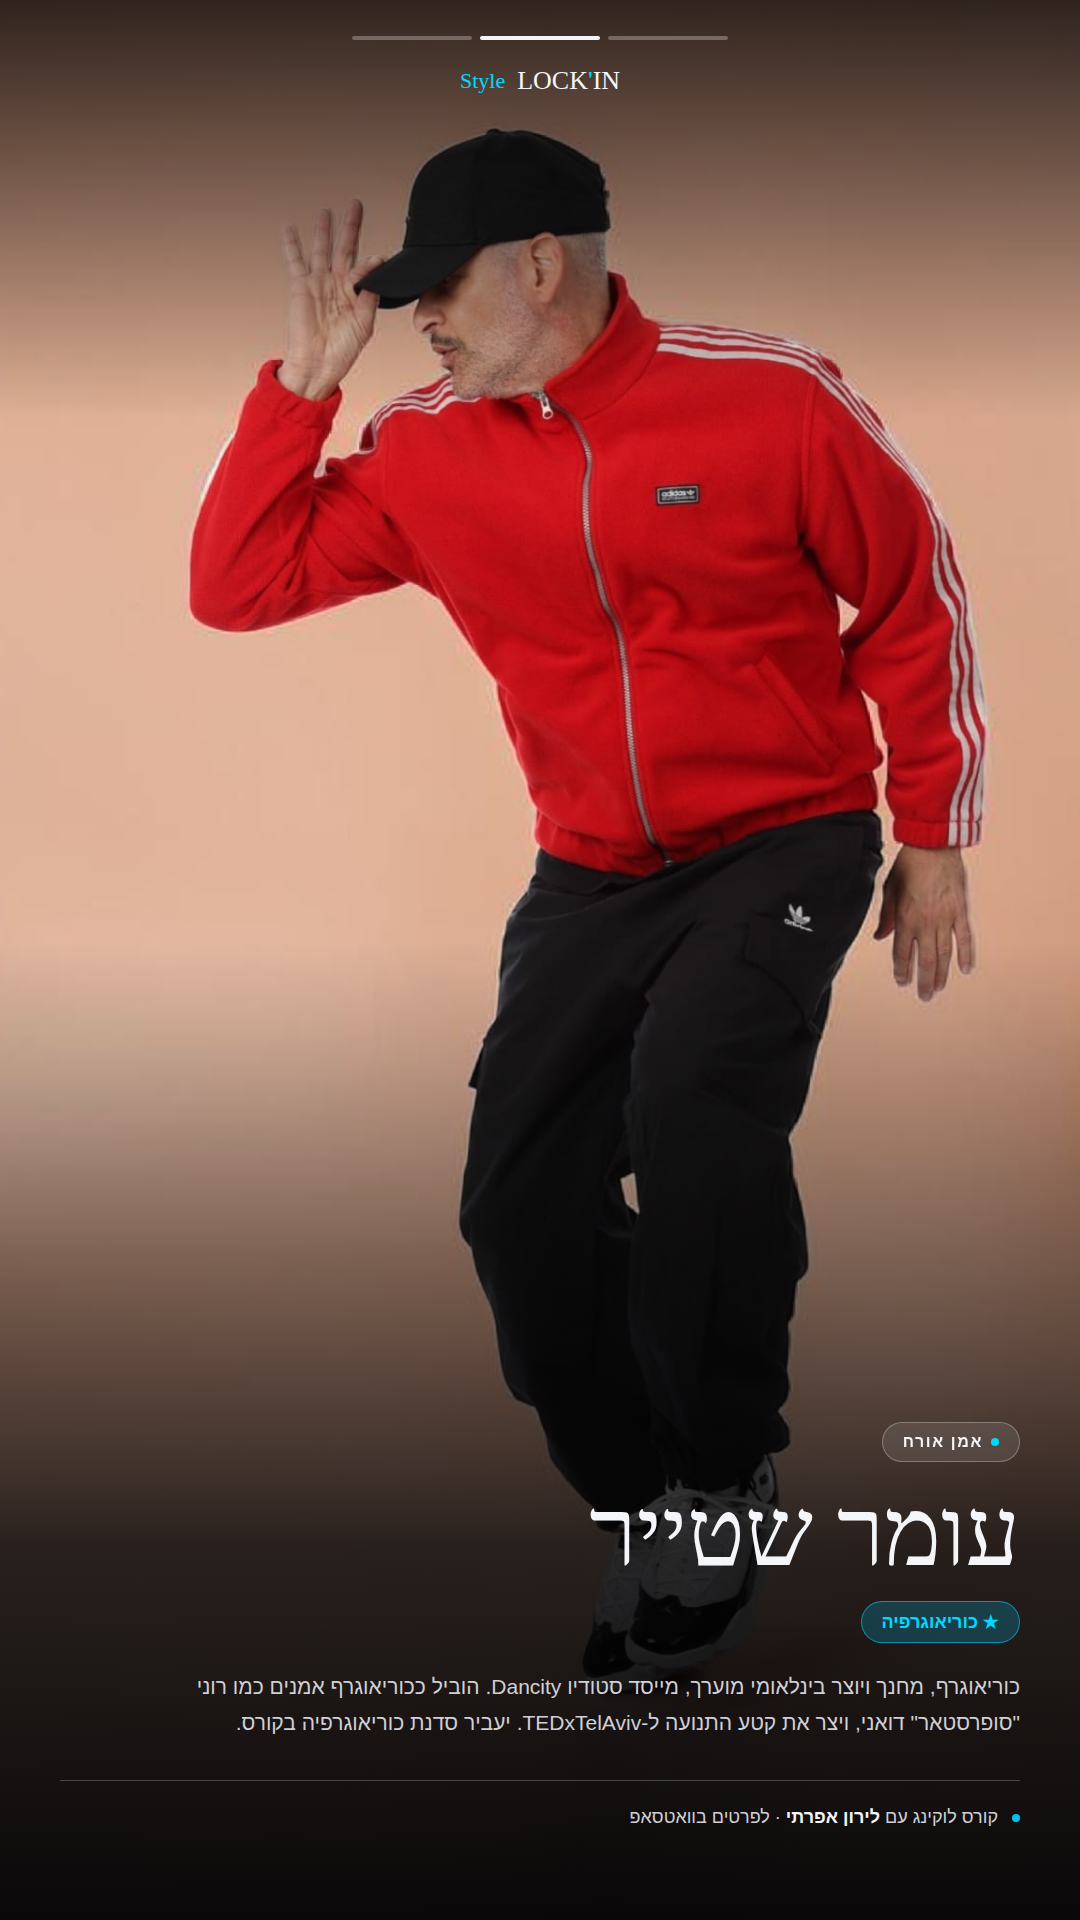
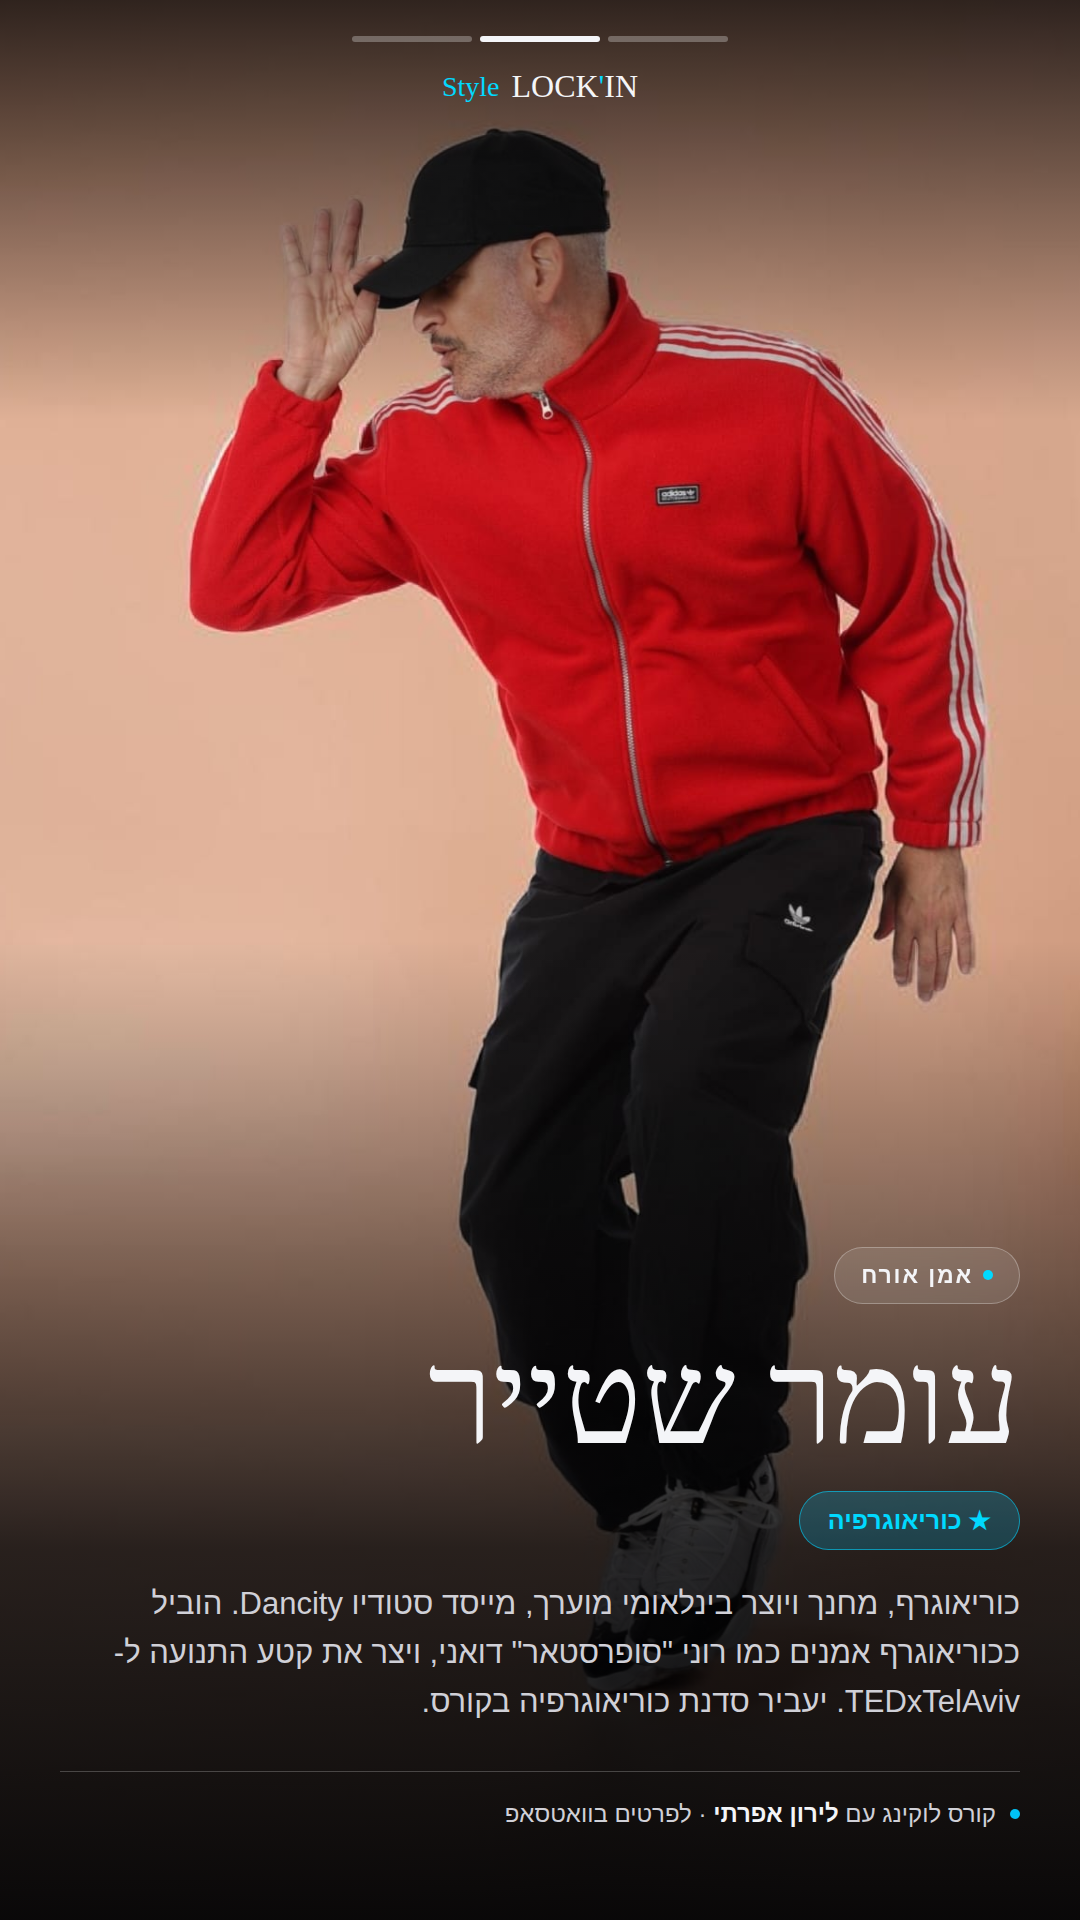
Increase story text sizes for mobile readability
Bumped name, tag, bio, and footer font sizes across all three
stories so text is clearly legible on a phone screen.

Claude-Session: https://claude.ai/code/session_017oc7dHt4BH2YXuYbmW5Hxs

diff --git a/stories/story-1-liron.html b/stories/story-1-liron.html
@@ -33,13 +33,13 @@ html, body { width:1080px; height:1920px; background:var(--ink); font-family:'He
 }
 
 .top-bar { position:relative; z-index:2; display:flex; justify-content:center; gap:8px; padding:36px 56px 0; }
-.top-bar .seg { height:4px; flex:1; max-width:120px; border-radius:100px; background:oklch(1 0 0 / .28); }
+.top-bar .seg { height:6px; flex:1; max-width:120px; border-radius:100px; background:oklch(1 0 0 / .28); }
 .top-bar .seg.active { background:var(--paper); }
 
 .brand { position:relative; z-index:2; display:flex; align-items:center; justify-content:center; gap:10px; margin-top:26px; }
-.brand .mark { font-family:'Suez One',serif; font-size:26px; color:var(--paper); }
+.brand .mark { font-family:'Suez One',serif; font-size:32px; color:var(--paper); }
 .brand .mark .q { color:var(--accent-lt); }
-.brand .script { font-family:'Great Vibes',cursive; font-size:22px; color:var(--accent-lt); margin-inline-start:2px; }
+.brand .script { font-family:'Great Vibes',cursive; font-size:28px; color:var(--accent-lt); margin-inline-start:2px; }
 
 .content {
   position:absolute; z-index:2; left:0; right:0; bottom:0;
@@ -48,35 +48,35 @@ html, body { width:1080px; height:1920px; background:var(--ink); font-family:'He
 }
 
 .eyebrow {
-  display:inline-flex; align-items:center; gap:8px;
+  display:inline-flex; align-items:center; gap:10px;
   background:oklch(1 0 0 / .10); border:1px solid oklch(1 0 0 / .28);
   backdrop-filter:blur(6px);
-  border-radius:100px; padding:10px 20px; margin-bottom:22px;
-  font-size:16px; font-weight:700; letter-spacing:.1em; color:var(--paper);
+  border-radius:100px; padding:14px 26px; margin-bottom:26px;
+  font-size:23px; font-weight:700; letter-spacing:.08em; color:var(--paper);
 }
-.eyebrow .dot { width:8px; height:8px; border-radius:50%; background:var(--accent-lt); }
+.eyebrow .dot { width:10px; height:10px; border-radius:50%; background:var(--accent-lt); }
 
 h1 {
   font-family:'Suez One',serif; font-weight:400; color:var(--paper);
-  font-size:96px; line-height:1.02; margin-bottom:20px;
+  font-size:132px; line-height:1.04; margin-bottom:24px;
 }
 
 .tag {
-  display:inline-flex; align-items:center; gap:6px;
+  display:inline-flex; align-items:center; gap:8px;
   background:oklch(0.74 0.17 288 / .22); border:1px solid oklch(0.82 0.15 288 / .55);
   color:var(--accent-lt);
-  border-radius:100px; padding:9px 20px; font-size:18px; font-weight:700;
-  margin-bottom:26px;
+  border-radius:100px; padding:14px 28px; font-size:25px; font-weight:700;
+  margin-bottom:30px;
 }
 
-.bio { font-size:21px; line-height:1.68; color:var(--muted); max-width:900px; margin-bottom:40px; }
+.bio { font-size:31px; line-height:1.58; color:var(--muted); max-width:960px; margin-bottom:44px; }
 
 .footer {
   display:flex; align-items:center; gap:14px;
-  border-top:1px solid oklch(1 0 0 / .22); padding-top:26px; width:100%;
+  border-top:1px solid oklch(1 0 0 / .22); padding-top:28px; width:100%;
 }
-.footer .fdot { width:8px; height:8px; border-radius:50%; background:var(--accent); flex-shrink:0; }
-.footer .ftext { font-size:18px; color:var(--muted); }
+.footer .fdot { width:10px; height:10px; border-radius:50%; background:var(--accent); flex-shrink:0; }
+.footer .ftext { font-size:24px; color:var(--muted); }
 .footer .ftext b { color:var(--paper); }
 </style>
 </head>

diff --git a/stories/story-2-omer.html b/stories/story-2-omer.html
@@ -33,13 +33,13 @@ html, body { width:1080px; height:1920px; background:var(--ink); font-family:'He
 }
 
 .top-bar { position:relative; z-index:2; display:flex; justify-content:center; gap:8px; padding:36px 56px 0; }
-.top-bar .seg { height:4px; flex:1; max-width:120px; border-radius:100px; background:oklch(1 0 0 / .28); }
+.top-bar .seg { height:6px; flex:1; max-width:120px; border-radius:100px; background:oklch(1 0 0 / .28); }
 .top-bar .seg.active { background:var(--paper); }
 
 .brand { position:relative; z-index:2; display:flex; align-items:center; justify-content:center; gap:10px; margin-top:26px; }
-.brand .mark { font-family:'Suez One',serif; font-size:26px; color:var(--paper); }
+.brand .mark { font-family:'Suez One',serif; font-size:32px; color:var(--paper); }
 .brand .mark .q { color:var(--accent-lt); }
-.brand .script { font-family:'Great Vibes',cursive; font-size:22px; color:var(--accent-lt); margin-inline-start:2px; }
+.brand .script { font-family:'Great Vibes',cursive; font-size:28px; color:var(--accent-lt); margin-inline-start:2px; }
 
 .content {
   position:absolute; z-index:2; left:0; right:0; bottom:0;
@@ -48,35 +48,35 @@ html, body { width:1080px; height:1920px; background:var(--ink); font-family:'He
 }
 
 .eyebrow {
-  display:inline-flex; align-items:center; gap:8px;
+  display:inline-flex; align-items:center; gap:10px;
   background:oklch(1 0 0 / .10); border:1px solid oklch(1 0 0 / .28);
   backdrop-filter:blur(6px);
-  border-radius:100px; padding:10px 20px; margin-bottom:22px;
-  font-size:16px; font-weight:700; letter-spacing:.1em; color:var(--paper);
+  border-radius:100px; padding:14px 26px; margin-bottom:26px;
+  font-size:23px; font-weight:700; letter-spacing:.08em; color:var(--paper);
 }
-.eyebrow .dot { width:8px; height:8px; border-radius:50%; background:var(--accent-lt); }
+.eyebrow .dot { width:10px; height:10px; border-radius:50%; background:var(--accent-lt); }
 
 h1 {
   font-family:'Suez One',serif; font-weight:400; color:var(--paper);
-  font-size:96px; line-height:1.02; margin-bottom:20px;
+  font-size:132px; line-height:1.04; margin-bottom:24px;
 }
 
 .tag {
-  display:inline-flex; align-items:center; gap:6px;
+  display:inline-flex; align-items:center; gap:8px;
   background:oklch(0.74 0.17 220 / .22); border:1px solid oklch(0.82 0.15 220 / .55);
   color:var(--accent-lt);
-  border-radius:100px; padding:9px 20px; font-size:18px; font-weight:700;
-  margin-bottom:26px;
+  border-radius:100px; padding:14px 28px; font-size:25px; font-weight:700;
+  margin-bottom:30px;
 }
 
-.bio { font-size:21px; line-height:1.68; color:var(--muted); max-width:900px; margin-bottom:40px; }
+.bio { font-size:31px; line-height:1.58; color:var(--muted); max-width:960px; margin-bottom:44px; }
 
 .footer {
   display:flex; align-items:center; gap:14px;
-  border-top:1px solid oklch(1 0 0 / .22); padding-top:26px; width:100%;
+  border-top:1px solid oklch(1 0 0 / .22); padding-top:28px; width:100%;
 }
-.footer .fdot { width:8px; height:8px; border-radius:50%; background:var(--accent); flex-shrink:0; }
-.footer .ftext { font-size:18px; color:var(--muted); }
+.footer .fdot { width:10px; height:10px; border-radius:50%; background:var(--accent); flex-shrink:0; }
+.footer .ftext { font-size:24px; color:var(--muted); }
 .footer .ftext b { color:var(--paper); }
 </style>
 </head>

diff --git a/stories/story-3-dean.html b/stories/story-3-dean.html
@@ -33,13 +33,13 @@ html, body { width:1080px; height:1920px; background:var(--ink); font-family:'He
 }
 
 .top-bar { position:relative; z-index:2; display:flex; justify-content:center; gap:8px; padding:36px 56px 0; }
-.top-bar .seg { height:4px; flex:1; max-width:120px; border-radius:100px; background:oklch(1 0 0 / .28); }
+.top-bar .seg { height:6px; flex:1; max-width:120px; border-radius:100px; background:oklch(1 0 0 / .28); }
 .top-bar .seg.active { background:var(--paper); }
 
 .brand { position:relative; z-index:2; display:flex; align-items:center; justify-content:center; gap:10px; margin-top:26px; }
-.brand .mark { font-family:'Suez One',serif; font-size:26px; color:var(--paper); }
+.brand .mark { font-family:'Suez One',serif; font-size:32px; color:var(--paper); }
 .brand .mark .q { color:var(--accent-lt); }
-.brand .script { font-family:'Great Vibes',cursive; font-size:22px; color:var(--accent-lt); margin-inline-start:2px; }
+.brand .script { font-family:'Great Vibes',cursive; font-size:28px; color:var(--accent-lt); margin-inline-start:2px; }
 
 .content {
   position:absolute; z-index:2; left:0; right:0; bottom:0;
@@ -48,35 +48,35 @@ html, body { width:1080px; height:1920px; background:var(--ink); font-family:'He
 }
 
 .eyebrow {
-  display:inline-flex; align-items:center; gap:8px;
+  display:inline-flex; align-items:center; gap:10px;
   background:oklch(1 0 0 / .10); border:1px solid oklch(1 0 0 / .28);
   backdrop-filter:blur(6px);
-  border-radius:100px; padding:10px 20px; margin-bottom:22px;
-  font-size:16px; font-weight:700; letter-spacing:.1em; color:var(--paper);
+  border-radius:100px; padding:14px 26px; margin-bottom:26px;
+  font-size:23px; font-weight:700; letter-spacing:.08em; color:var(--paper);
 }
-.eyebrow .dot { width:8px; height:8px; border-radius:50%; background:var(--accent-lt); }
+.eyebrow .dot { width:10px; height:10px; border-radius:50%; background:var(--accent-lt); }
 
 h1 {
   font-family:'Suez One',serif; font-weight:400; color:var(--paper);
-  font-size:96px; line-height:1.02; margin-bottom:20px;
+  font-size:132px; line-height:1.04; margin-bottom:24px;
 }
 
 .tag {
-  display:inline-flex; align-items:center; gap:6px;
+  display:inline-flex; align-items:center; gap:8px;
   background:oklch(0.74 0.17 260 / .22); border:1px solid oklch(0.82 0.15 260 / .55);
   color:var(--accent-lt);
-  border-radius:100px; padding:9px 20px; font-size:18px; font-weight:700;
-  margin-bottom:26px;
+  border-radius:100px; padding:14px 28px; font-size:25px; font-weight:700;
+  margin-bottom:30px;
 }
 
-.bio { font-size:21px; line-height:1.68; color:var(--muted); max-width:900px; margin-bottom:40px; }
+.bio { font-size:31px; line-height:1.58; color:var(--muted); max-width:960px; margin-bottom:44px; }
 
 .footer {
   display:flex; align-items:center; gap:14px;
-  border-top:1px solid oklch(1 0 0 / .22); padding-top:26px; width:100%;
+  border-top:1px solid oklch(1 0 0 / .22); padding-top:28px; width:100%;
 }
-.footer .fdot { width:8px; height:8px; border-radius:50%; background:var(--accent); flex-shrink:0; }
-.footer .ftext { font-size:18px; color:var(--muted); }
+.footer .fdot { width:10px; height:10px; border-radius:50%; background:var(--accent); flex-shrink:0; }
+.footer .ftext { font-size:24px; color:var(--muted); }
 .footer .ftext b { color:var(--paper); }
 </style>
 </head>
